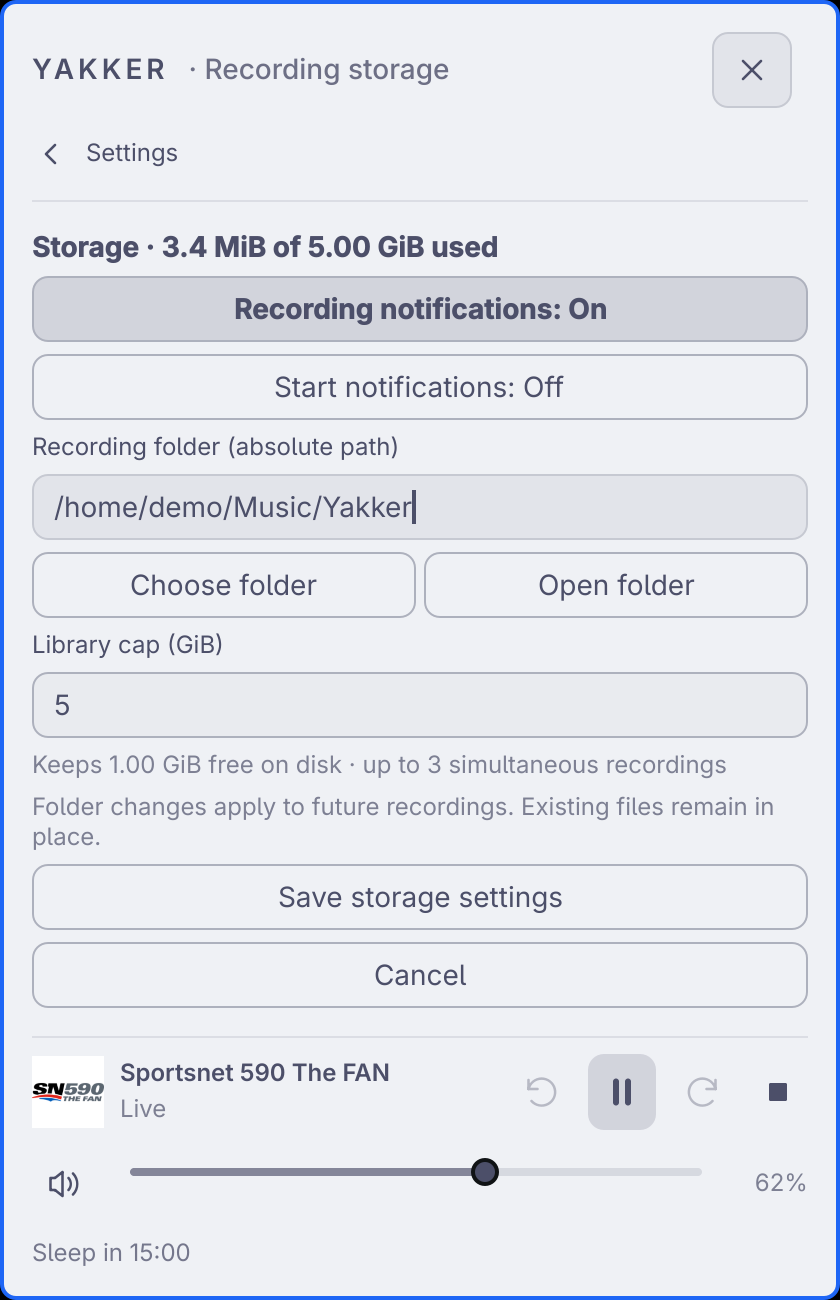
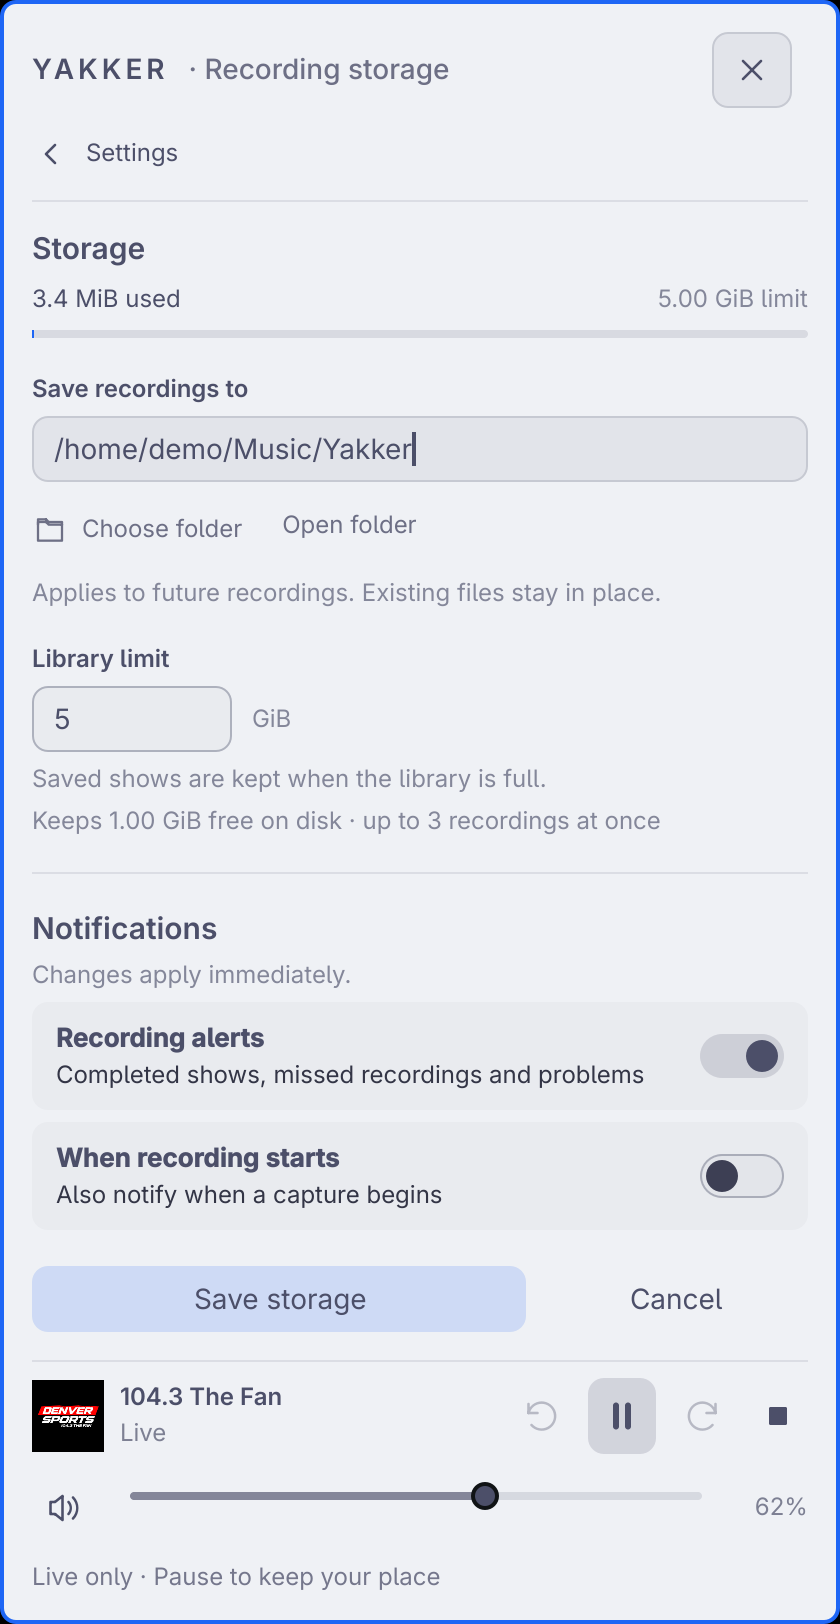
Polish recording storage and notification controls

diff --git a/RecordingsView.qml b/RecordingsView.qml
@@ -134,6 +134,22 @@ Column {
     wrapMode: Text.Wrap
   }
 
+  component StorageToggle: Ui.Toggle {
+    width: parent.width
+    foreground: root.foreground
+    fontFamily: root.uiFontFamily
+    titleSize: Style.fontPx(1.083)
+    descriptionSize: Style.fontPx(1)
+    borderSpec: activeFocus ? Border.controlSpec("focus", foreground, accent) : Border.none()
+    opacity: enabled ? 1 : 0.45
+    Accessible.role: Accessible.CheckBox
+    Accessible.name: label
+    Accessible.description: description
+    Accessible.checkable: true
+    Accessible.checked: checked
+    onActiveFocusChanged: if (activeFocus) root.ensureVisible(this)
+  }
+
   function activate() { focusItem(backButton.visible ? backButton : tab === "schedules" ? newScheduleButton : searchField) }
   function goBack() {
     if (pending) return
@@ -832,22 +848,158 @@ Column {
     Radio.FocusButton { width: parent.width; visible: root.nowRevision !== Number(root.snapshot.revision); text: "Refresh and keep this draft"; foreground: root.foreground; focusable: true; onActiveFocusChanged: if (activeFocus) root.ensureVisible(this); enabled: !root.pending; onClicked: { root.nowRevision = Number(root.snapshot.revision) || 0; root.localError = "" } }
   }
   FolderDialog { id: folderDialog; title: "Choose recording folder"; onAccepted: { const path = root.pathFromFolderUrl(selectedFolder); if (path) { folderField.text = path; root.localError = "" } else root.localError = "Choose a local folder." } }
-  Column { width: parent.width; spacing: Style.space(6); visible: root.storageEditing
-    Text { width: parent.width; text: "Storage · " + root.sizeText(root.snapshot.usedBytes) + " of " + root.sizeText((root.snapshot.settings || {}).storageCapBytes) + " used"; textFormat: Text.PlainText; color: root.foreground; font.family: root.uiFontFamily; font.pixelSize: Style.fontPx(1.167); font.bold: true }
-    Radio.FocusButton { width: parent.width; text: root.radio.recordingNotifications ? "Recording notifications: On" : "Recording notifications: Off"; selected: root.radio.recordingNotifications; foreground: root.foreground; bordered: true; focusable: true; onActiveFocusChanged: if (activeFocus) root.ensureVisible(this); onClicked: root.radio.setRecordingNotifications(!root.radio.recordingNotifications) }
-    Radio.FocusButton { width: parent.width; text: root.radio.recordingStartNotifications ? "Start notifications: On" : "Start notifications: Off"; selected: root.radio.recordingStartNotifications; foreground: root.foreground; bordered: true; focusable: true; onActiveFocusChanged: if (activeFocus) root.ensureVisible(this); enabled: root.radio.recordingNotifications; onClicked: root.radio.setRecordingStartNotifications(!root.radio.recordingStartNotifications) }
-    Text { width: parent.width; text: "Recording folder (absolute path)"; textFormat: Text.PlainText; color: root.foreground; font.family: root.uiFontFamily; font.pixelSize: Style.fontPx(1) }
-    Ui.TextField { font.family: root.uiFontFamily; font.pixelSize: Style.fontPx(1.167); id: folderField; width: parent.width; placeholderText: "Absolute folder path"; Accessible.name: placeholderText; foreground: root.foreground; maximumLength: 4096; onActiveFocusChanged: if (activeFocus) root.ensureVisible(this) }
-    Row { width: parent.width; spacing: Style.space(4)
-      Radio.FocusButton { width: (parent.width-parent.spacing)/2; text: "Choose folder"; foreground: root.foreground; bordered: true; focusable: true; onActiveFocusChanged: if (activeFocus) root.ensureVisible(this); onClicked: { const url = root.folderUrl(folderField.text); if (url) folderDialog.currentFolder = url; folderDialog.open() } }
-      Radio.FocusButton { width: (parent.width-parent.spacing)/2; text: "Open folder"; foreground: root.foreground; bordered: true; focusable: true; onActiveFocusChanged: if (activeFocus) root.ensureVisible(this); onClicked: { const url = root.folderUrl(folderField.text); if (!url || !Qt.openUrlExternally(url)) root.localError = "Enter a local absolute folder path to open." } }
+  Column {
+    width: parent.width
+    spacing: Style.space(18)
+    visible: root.storageEditing
+    enabled: !root.pending
+    Column {
+      width: parent.width
+      spacing: Style.space(8)
+      FieldLabel { text: "Storage"; font.pixelSize: Style.fontPx(1.25) }
+      Row {
+        width: parent.width
+        spacing: Style.space(8)
+        Hint { width: (parent.width - parent.spacing) / 2; text: root.sizeText(root.snapshot.usedBytes) + " used"; color: root.foreground }
+        Hint { width: (parent.width - parent.spacing) / 2; text: root.sizeText((root.snapshot.settings || {}).storageCapBytes) + " limit"; horizontalAlignment: Text.AlignRight }
+      }
+      QQC.ProgressBar {
+        id: storageUsage
+        width: parent.width
+        height: Style.space(4)
+        visible: root.available && Number((root.snapshot.settings || {}).storageCapBytes) > 0
+        from: 0
+        to: Math.max(1, Number((root.snapshot.settings || {}).storageCapBytes) || 0)
+        value: Math.min(to, Math.max(0, Number(root.snapshot.usedBytes) || 0))
+        Accessible.name: "Recording storage usage"
+        Accessible.description: root.sizeText(root.snapshot.usedBytes) + " of " + root.sizeText((root.snapshot.settings || {}).storageCapBytes)
+        background: Rectangle { radius: height / 2; color: Qt.alpha(root.foreground, 0.14) }
+        contentItem: Item { Rectangle { width: parent.width * storageUsage.visualPosition; height: parent.height; radius: height / 2; color: Commons.Color.accent } }
+      }
     }
-    Text { width: parent.width; text: "Library cap (GiB)"; textFormat: Text.PlainText; color: root.foreground; font.family: root.uiFontFamily; font.pixelSize: Style.fontPx(1) }
-    Ui.TextField { font.family: root.uiFontFamily; font.pixelSize: Style.fontPx(1.167); id: capField; width: parent.width; placeholderText: "Library cap (GiB)"; Accessible.name: placeholderText; foreground: root.foreground; inputMethodHints: Qt.ImhFormattedNumbersOnly; onActiveFocusChanged: if (activeFocus) root.ensureVisible(this) }
-    Text { width: parent.width; text: "Keeps " + root.sizeText((root.snapshot.settings || {}).freeSpaceReserveBytes) + " free on disk · up to " + ((root.snapshot.settings || {}).concurrency || 3) + " simultaneous recordings"; textFormat: Text.PlainText; color: root.foreground; opacity: 0.7; font.family: root.uiFontFamily; font.pixelSize: Style.fontPx(1); wrapMode: Text.Wrap }
-    Text { width: parent.width; text: "Folder changes apply to future recordings. Existing files remain in place."; textFormat: Text.PlainText; color: root.foreground; opacity: 0.7; font.family: root.uiFontFamily; font.pixelSize: Style.fontPx(1); wrapMode: Text.Wrap }
-    Radio.FocusButton { width: parent.width; text: root.pending && root.pendingKind === "settings" ? "Saving…" : "Save storage settings"; foreground: root.foreground; bordered: true; focusable: true; enabled: root.available && !root.pending; onActiveFocusChanged: if (activeFocus) root.ensureVisible(this); onClicked: root.saveStorage() }
-    Radio.FocusButton { width: parent.width; visible: root.storageRevision !== Number(root.snapshot.revision); text: "Refresh and keep these settings"; foreground: root.foreground; bordered: true; focusable: true; enabled: !root.pending; onActiveFocusChanged: if (activeFocus) root.ensureVisible(this); onClicked: { root.storageRevision = Number(root.snapshot.revision) || 0; root.localError = "" } }
-    Radio.FocusButton { width: parent.width; text: "Cancel"; foreground: root.foreground; bordered: true; focusable: true; enabled: !root.pending; onActiveFocusChanged: if (activeFocus) root.ensureVisible(this); onClicked: root.goBack() }
+    Column {
+      width: parent.width
+      spacing: Style.space(6)
+      FieldLabel { text: "Save recordings to" }
+      Ui.TextField {
+        id: folderField
+        width: parent.width
+        font.family: root.uiFontFamily
+        font.pixelSize: Style.fontPx(1.167)
+        placeholderText: "Absolute folder path"
+        Accessible.name: "Recording folder (absolute path)"
+        foreground: root.foreground
+        maximumLength: 4096
+        onActiveFocusChanged: if (activeFocus) root.ensureVisible(this)
+      }
+      Row {
+        width: parent.width
+        spacing: Style.space(18)
+        Radio.FocusButton {
+          id: chooseFolderButton
+          text: "Choose folder"
+          iconName: "folder"
+          iconSize: Style.space(16)
+          fontSize: Style.fontPx(1)
+          horizontalPadding: 0
+          foreground: Qt.alpha(root.foreground, 0.8)
+          focusable: true
+          onActiveFocusChanged: if (activeFocus) root.ensureVisible(this)
+          onClicked: { const url = root.folderUrl(folderField.text); if (url) folderDialog.currentFolder = url; folderDialog.open() }
+        }
+        Radio.FocusButton {
+          id: openFolderButton
+          text: "Open folder"
+          fontSize: Style.fontPx(1)
+          horizontalPadding: 0
+          foreground: Qt.alpha(root.foreground, 0.8)
+          focusable: true
+          onActiveFocusChanged: if (activeFocus) root.ensureVisible(this)
+          onClicked: { const url = root.folderUrl(folderField.text); if (!url || !Qt.openUrlExternally(url)) root.localError = "Enter a local absolute folder path to open." }
+        }
+      }
+      Hint { text: "Applies to future recordings. Existing files stay in place." }
+    }
+    Column {
+      width: parent.width
+      spacing: Style.space(6)
+      FieldLabel { text: "Library limit" }
+      Row {
+        width: parent.width
+        spacing: Style.space(10)
+        Ui.TextField {
+          id: capField
+          width: Style.space(100)
+          font.family: root.uiFontFamily
+          font.pixelSize: Style.fontPx(1.167)
+          placeholderText: "5"
+          Accessible.name: "Library limit in GiB"
+          foreground: root.foreground
+          inputMethodHints: Qt.ImhFormattedNumbersOnly
+          onActiveFocusChanged: if (activeFocus) root.ensureVisible(this)
+        }
+        Hint { width: parent.width - capField.width - parent.spacing; text: "GiB"; anchors.verticalCenter: parent.verticalCenter }
+      }
+      Hint { text: "Saved shows are kept when the library is full." }
+      Hint { text: "Keeps " + root.sizeText((root.snapshot.settings || {}).freeSpaceReserveBytes) + " free on disk · up to " + ((root.snapshot.settings || {}).concurrency || 3) + " recordings at once" }
+    }
+    Ui.PanelSeparator { width: parent.width }
+    Column {
+      width: parent.width
+      spacing: Style.space(6)
+      FieldLabel { text: "Notifications"; font.pixelSize: Style.fontPx(1.25) }
+      Hint { text: "Changes apply immediately." }
+      StorageToggle {
+        id: recordingAlertsToggle
+        label: "Recording alerts"
+        description: "Completed shows, missed recordings and problems"
+        checked: root.radio.recordingNotifications
+        onClicked: root.radio.setRecordingNotifications(!checked)
+      }
+      StorageToggle {
+        id: recordingStartToggle
+        label: "When recording starts"
+        description: enabled ? "Also notify when a capture begins" : "Turn on recording alerts to enable"
+        checked: root.radio.recordingStartNotifications
+        enabled: root.radio.recordingNotifications
+        onClicked: if (enabled) root.radio.setRecordingStartNotifications(!checked)
+      }
+    }
+    Radio.FocusButton {
+      id: refreshStorageButton
+      visible: root.storageRevision !== Number(root.snapshot.revision)
+      text: "Refresh and keep these settings"
+      fontSize: Style.fontPx(1)
+      horizontalPadding: 0
+      foreground: root.foreground
+      focusable: true
+      onActiveFocusChanged: if (activeFocus) root.ensureVisible(this)
+      onClicked: { root.storageRevision = Number(root.snapshot.revision) || 0; root.localError = "" }
+    }
+    Row {
+      width: parent.width
+      spacing: Style.space(8)
+      Radio.FocusButton {
+        id: saveStorageButton
+        width: (parent.width - parent.spacing) * 0.65
+        text: root.pending && root.pendingKind === "settings" ? "Saving…" : "Save storage"
+        color: Qt.alpha(Commons.Color.accent, 0.16)
+        foreground: root.foreground
+        focusable: true
+        enabled: root.available && !root.pending
+        onActiveFocusChanged: if (activeFocus) root.ensureVisible(this)
+        onClicked: root.saveStorage()
+      }
+      Radio.FocusButton {
+        id: cancelStorageButton
+        width: (parent.width - parent.spacing) * 0.35
+        text: "Cancel"
+        foreground: root.foreground
+        focusable: true
+        enabled: !root.pending
+        onActiveFocusChanged: if (activeFocus) root.ensureVisible(this)
+        onClicked: root.goBack()
+      }
+    }
   }
 }

diff --git a/tools/qml-smoke/recordings.qml b/tools/qml-smoke/recordings.qml
@@ -424,10 +424,48 @@ ShellRoot {
           panel.cursor = 17; panel.activate(); verify(panel.recordingsOpen); verify(panel.testView.storageEditing); compare(panel.testView.tab, "library")
           tryVerify(function() { return panel.testView.testFolder.activeFocus }, 2000)
           tryVerify(function() { var y = panel.testView.testFolder.mapToItem(panel, 0, 0).y; return y >= 0 && y + panel.testView.testFolder.height <= window.height }, 2000)
+          console.log("QA: storage switches and drafts")
+          const storedFolder = panel.testView.testFolder.text, storedCap = panel.testView.testCap.text
+          const storedAlerts = panel.radio.recordingNotifications, storedStarts = panel.radio.recordingStartNotifications
+          verify(panel.testView.testRecordingAlerts.checked && !panel.testView.testRecordingStarts.checked)
+          panel.testView.testRecordingStarts.forceActiveFocus(); keyClick(Qt.Key_Space)
+          verify(panel.radio.recordingStartNotifications && panel.testView.testRecordingStarts.checked)
+          panel.testView.testRecordingAlerts.forceActiveFocus(); keyClick(Qt.Key_Return)
+          verify(!panel.radio.recordingNotifications && !panel.testView.testRecordingStarts.enabled)
+          verify(panel.testView.testRecordingStarts.checked, "Disabling alerts erased the start notification preference")
+          panel.testView.testRecordingAlerts.forceActiveFocus(); keyClick(Qt.Key_Space)
+          verify(panel.radio.recordingNotifications && panel.testView.testRecordingStarts.enabled)
+          panel.testView.testFolder.text = storedFolder + "/draft"
+          panel.testView.testCap.text = "7"
+          panel.testView.testStorageCancel.clicked()
+          verify(panel.settingsOpen && !panel.recordingsOpen)
+          verify(panel.radio.recordingStartNotifications, "Cancel incorrectly rolled back immediate notification settings")
+          panel.openSettingsStorage()
+          tryVerify(function() { return panel.testView.testFolder.activeFocus }, 2000)
+          compare(panel.testView.testFolder.text, storedFolder); compare(panel.testView.testCap.text, storedCap)
+          panel.testView.testRecordingStarts.forceActiveFocus(); keyClick(Qt.Key_Return)
+          compare(panel.radio.recordingNotifications, storedAlerts); compare(panel.radio.recordingStartNotifications, storedStarts)
+          const storageSnapshot = panel.radio.recordings
+          panel.radio.recordings = Object.assign({}, storageSnapshot, {usedBytes:storageSnapshot.settings.storageCapBytes*2})
+          compare(panel.testView.testStorageUsage.visualPosition, 1, "Storage usage overflowed its track")
+          panel.radio.recordings = Object.assign({}, storageSnapshot, {usedBytes:-1})
+          compare(panel.testView.testStorageUsage.visualPosition, 0)
+          panel.radio.recordings = storageSnapshot
+          panel.testView.testFolder.text = "relative-folder"
+          panel.testView.testOpenFolder.clicked()
+          verify(panel.testView.localError.indexOf("absolute folder") >= 0)
+          panel.testView.testFolder.text = storedFolder; panel.testView.localError = ""
+          wait(100) // Let the error scroll finish before testing focus navigation.
+          panel.testView.testFolder.forceActiveFocus()
           capture("storage")
-          window.height = 300
-          tryVerify(function() { var y = panel.testView.testFolder.mapToItem(panel, 0, 0).y; return y >= 0 && y + panel.testView.testFolder.height <= window.height }, 2000)
+          window.height = 300; window.width = 320
+          tryVerify(function() { var y = panel.testView.testFolder.mapToItem(panel, 0, 0).y; return y >= 0 && y + panel.testView.testFolder.height <= panel.testDock.mapToItem(panel, 0, 0).y }, 2000)
+          panel.testView.testRecordingStarts.forceActiveFocus()
+          tryVerify(function() { var y = panel.testView.testRecordingStarts.mapToItem(panel, 0, 0).y; return y >= 0 && y + panel.testView.testRecordingStarts.height <= panel.testDock.mapToItem(panel, 0, 0).y }, 2000, "Notification switch hidden behind playback dock")
+          panel.testView.testStorageSave.forceActiveFocus()
+          tryVerify(function() { var y = panel.testView.testStorageSave.mapToItem(panel, 0, 0).y; return y >= 0 && y + panel.testView.testStorageSave.height <= panel.testDock.mapToItem(panel, 0, 0).y }, 2000, "Save storage hidden behind playback dock")
           capture("storage-small")
+          window.height = 650; window.width = 420
           panel.testSettingsBack.clicked()
           tryVerify(function() { return panel.settingsOpen && !panel.recordingsOpen && panel.testSettings.visible }, 2000)
           verify(!panel.testView.storageEditing, "Storage did not return to Settings")
@@ -442,8 +480,23 @@ ShellRoot {
           panel.testSettingsButton.clicked()
           verify(!panel.settingsOpen && panel.recordingsOpen && panel.testView.tab === "schedules", "X did not return from nested settings to the previous section")
           panel.openSettings(); panel.openSettingsStorage()
-          panel.testView.saveStorage()
+          tryVerify(function() { return panel.testView.testFolder.activeFocus }, 2000)
+          const previousLimit = panel.radio.recordings.settings.storageCapBytes
+          panel.testView.testCap.text = String((previousLimit + 1073741824) / 1073741824)
+          const storageDraft = panel.testView.testCap.text, previousRevision = panel.radio.recordings.revision
+          const previousSettings = panel.radio.recordings.settings
+          panel.radio.recordingSettings(previousRevision, {folder:previousSettings.folder, storageCapBytes:previousLimit+1, freeSpaceReserveBytes:previousSettings.freeSpaceReserveBytes, concurrency:previousSettings.concurrency})
+          tryVerify(function() { return panel.radio.recordings.revision > previousRevision }, 5000)
+          panel.testView.testStorageSave.clicked()
+          tryVerify(function() { return !panel.testView.pending }, 5000)
+          verify(!panel.radio.recordingMutationOK && panel.testView.storageEditing, "Stale storage draft was silently applied")
+          compare(panel.testView.testCap.text, storageDraft)
+          verify(panel.testView.testStorageRefresh.visible)
+          panel.testView.testStorageRefresh.clicked()
+          compare(panel.testView.testCap.text, storageDraft)
+          panel.testView.testStorageSave.clicked()
           tryVerify(function() { return !panel.testView.pending && panel.settingsOpen && !panel.recordingsOpen }, 5000)
+          compare(panel.radio.recordings.settings.storageCapBytes, previousLimit + 1073741824)
           panel.closeSettings(); panel.showPlayer()
           panel.radio.testHelper.running = false
           tryVerify(function() { return !panel.radio.ready }, 3000)

diff --git a/tools/readme/gallery.qml b/tools/readme/gallery.qml
@@ -136,7 +136,8 @@ ShellRoot {
           panel.settingsOpen = true
           capture("settings")
           panel.settingsOpen = false
-          selectExample("sportsnet-590")
+          selectExample("kkfn-fm")
+          radio.sleepRemaining = 0
           panel.openSettings()
           panel.openSettingsStorage()
           capture("storage")

diff --git a/tools/test-recordings-ui.py b/tools/test-recordings-ui.py
@@ -91,6 +91,14 @@ def main():
   property alias testLabel: labelField
   property alias testStart: startField
   property alias testEnd: endField
+  property alias testRecordingAlerts: recordingAlertsToggle
+  property alias testRecordingStarts: recordingStartToggle
+  property alias testStorageUsage: storageUsage
+  property alias testCap: capField
+  property alias testStorageSave: saveStorageButton
+  property alias testStorageCancel: cancelStorageButton
+  property alias testStorageRefresh: refreshStorageButton
+  property alias testOpenFolder: openFolderButton
   property alias testFolder: folderField
   property alias testRefreshDraft: refreshDraftButton
   required property var radio''', 1))

diff --git a/README.md b/README.md
@@ -301,7 +301,9 @@ use local time; upcoming schedule times and previews use the schedule's timezone
 
 Open **Settings → Recording storage**, or the storage controls in Recordings, to
 choose a folder and total library cap. Enter a path or use **Choose folder**;
-**Open folder** opens it in your file manager. Defaults:
+**Open folder** opens it in your file manager. A usage bar shows the saved library
+limit; **Save storage** applies folder and limit edits. Cancel discards those
+edits. Folder actions remain quiet secondary controls. Defaults:
 
 - **Folder:** `~/Music/Yakker`, created when the first capture needs it.
 - **Library cap:** 5 GiB, editable in Settings.
@@ -309,8 +311,10 @@ choose a folder and total library cap. Enter a path or use **Choose folder**;
 - **Cleanup:** manual deletion; existing recordings are preserved when full.
 
 Recording notifications are on by default for completed, partial, failed, and
-missed captures and storage or manager failures. In Storage, turn them off or
-enable optional start notifications, which default to off. Yakker suppresses
+missed captures and storage or manager failures. The **Notifications** section
+uses switches for **Recording alerts** and **When recording starts**, which is
+off by default. Notification changes apply immediately. Turning alerts off
+disables the start switch without erasing its saved preference. Yakker suppresses
 duplicate notices and does not announce old recordings again at startup.
 
 A folder change applies to future recordings. Older files remain listed at their
